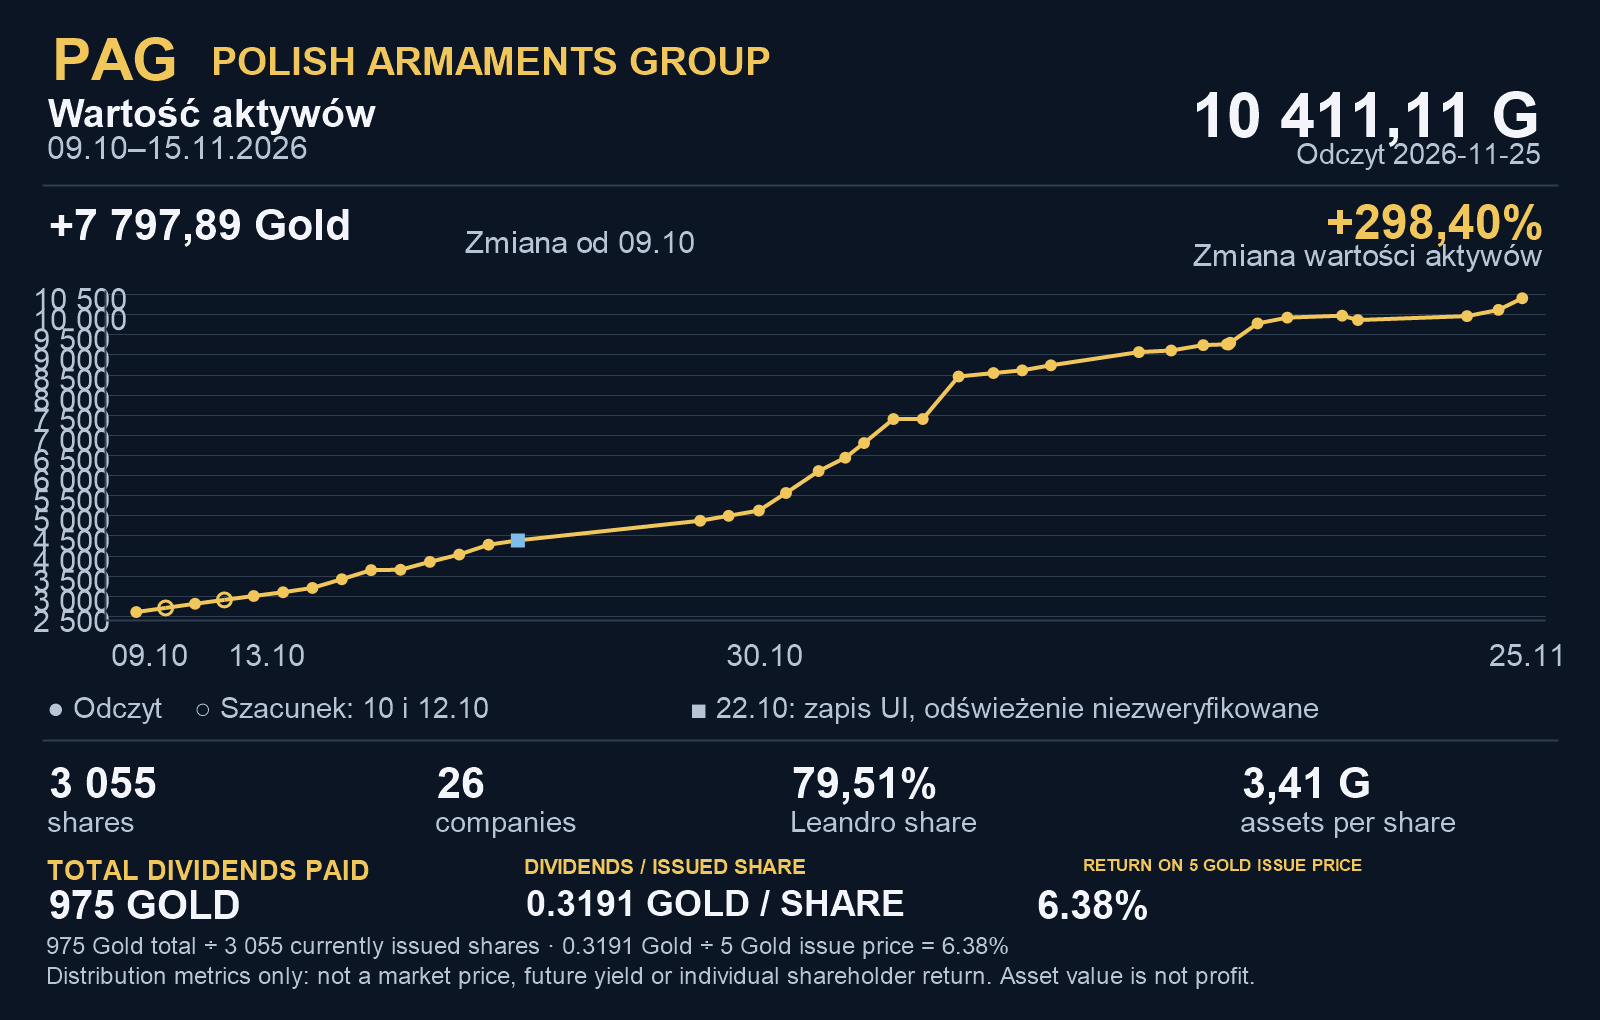
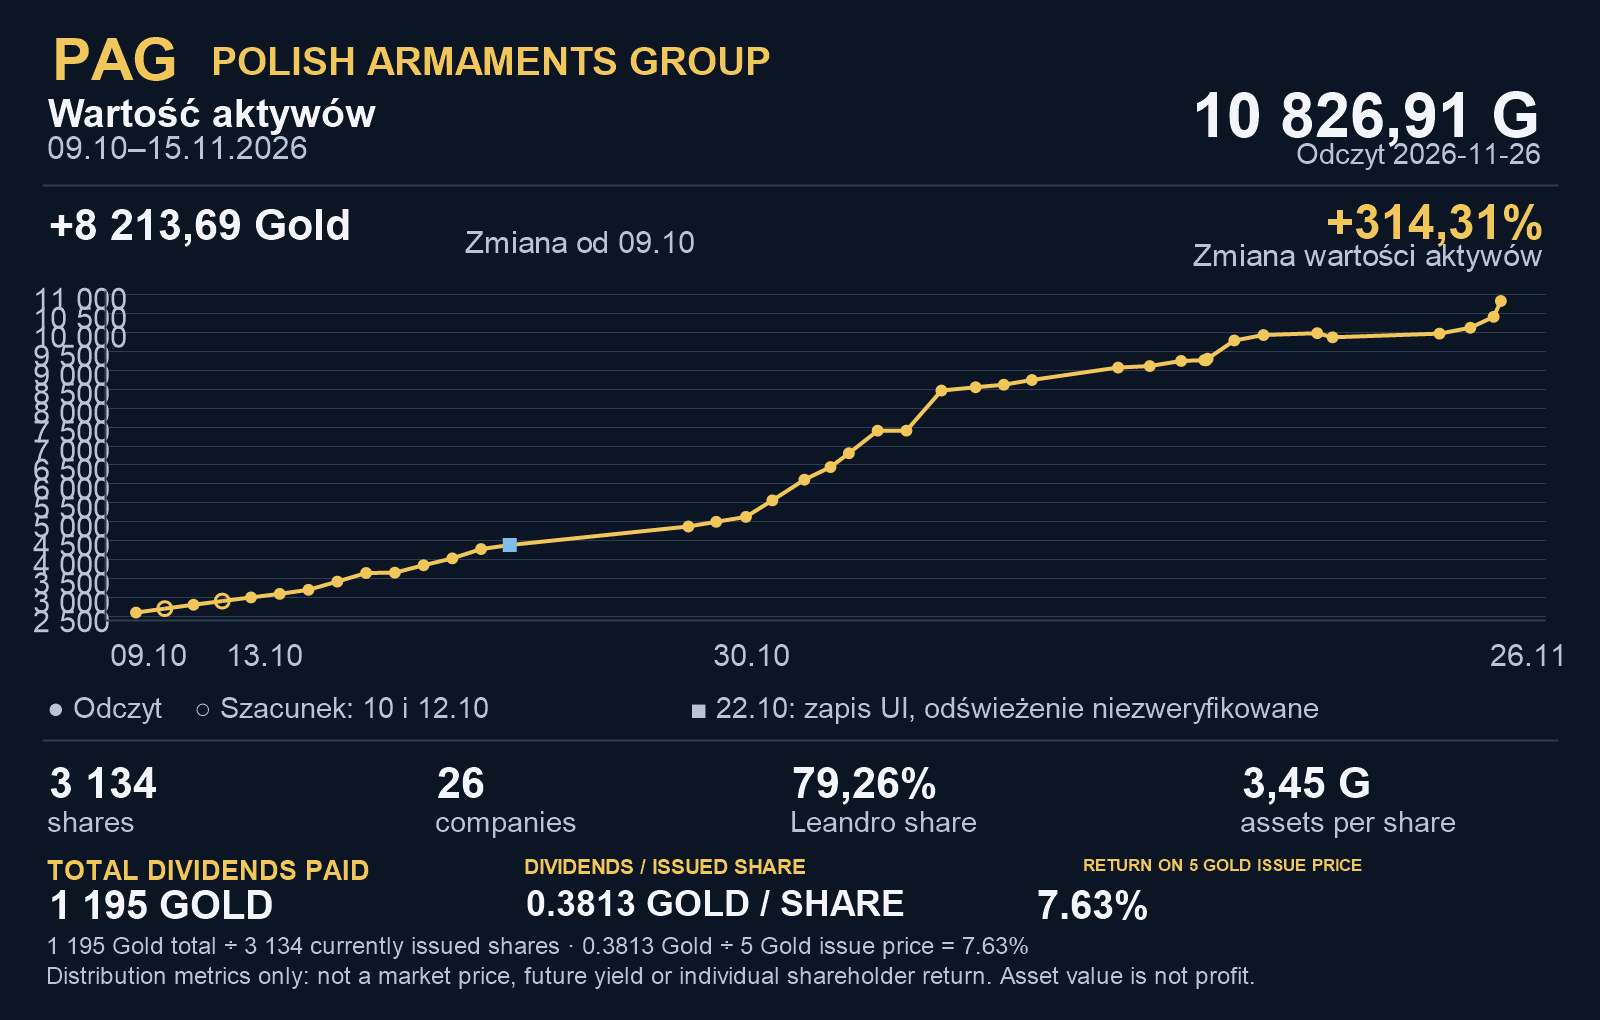
Record November 26 PAG dividend

diff --git a/pag-chart.html b/pag-chart.html
@@ -2413,6 +2413,21 @@ const history={
       &quot;source&quot;: &quot;Odczyt publicznego HTML Vexa przez HTTP GET bez logowania i bez odświeżania raportu; Leandro Daniels z wiersza imiennego; Total companies.&quot;,
       &quot;source_url&quot;: &quot;https://vexa.e-sim.org/stockCompany.html?id=45&quot;,
       &quot;report_refresh_confirmed&quot;: false
+    },
+    {
+      &quot;date&quot;: &quot;2026-11-26&quot;,
+      &quot;observed_at&quot;: &quot;2026-11-26T01:02:50Z&quot;,
+      &quot;value_gold&quot;: 10826.91,
+      &quot;shares&quot;: 3134,
+      &quot;leandro_shares&quot;: 2484,
+      &quot;leandro_percent_reported&quot;: 79.26,
+      &quot;factories&quot;: 26,
+      &quot;shareholders&quot;: 14,
+      &quot;reported_book_value_per_share_gold&quot;: 3.45,
+      &quot;status&quot;: &quot;confirmed&quot;,
+      &quot;source&quot;: &quot;Odczyt publicznego HTML Vexa przez HTTP GET bez logowania i bez odświeżania raportu; Leandro Daniels z wiersza imiennego; Total companies.&quot;,
+      &quot;source_url&quot;: &quot;https://vexa.e-sim.org/stockCompany.html?id=45&quot;,
+      &quot;report_refresh_confirmed&quot;: false
     }
   ],
   &quot;events&quot;: [
@@ -2422,6 +2437,13 @@ const history={
       &quot;amount_gold&quot;: 200,
       &quot;source&quot;: &quot;Raport graficzny użytkownika&quot;,
       &quot;notes&quot;: &quot;Wypłata według raportu. Nie doliczono do wartości aktywów.&quot;
+    },
+    {
+      &quot;date&quot;: &quot;2026-11-26&quot;,
+      &quot;type&quot;: &quot;dividend&quot;,
+      &quot;amount_gold&quot;: 220,
+      &quot;source&quot;: &quot;Log Vexa: Dividend paid, 26.11.2026 00:31:27 czasu serwera&quot;,
+      &quot;notes&quot;: &quot;Potwierdzona wypłata; nie jest dodawana do wartości aktywów.&quot;
     }
   ],
   &quot;dividend_distributions&quot;: [
@@ -2466,10 +2488,16 @@ const history={
       &quot;date&quot;: &quot;2026-11-14&quot;,
       &quot;round&quot;: &quot;2026-11-13/14&quot;,
       &quot;amount_gold&quot;: 250
+    },
+    {
+      &quot;server_time&quot;: &quot;00:31:27&quot;,
+      &quot;date&quot;: &quot;2026-11-26&quot;,
+      &quot;round&quot;: &quot;2026-11-26&quot;,
+      &quot;amount_gold&quot;: 220
     }
   ],
   &quot;dividend_definitions&quot;: {
-    &quot;total_paid_gold&quot;: &quot;Sum of logged Dividend paid entries; 975 Gold through 2026-11-14.&quot;,
+    &quot;total_paid_gold&quot;: &quot;Sum of logged Dividend paid entries; 1,195 Gold through 2026-11-26.&quot;,
     &quot;asset_value_plus_dividends_gold&quot;: &quot;Displayed asset value plus cumulative dividends paid before the measurement time. Derived comparison; not assets still held by PAG.&quot;,
     &quot;measurement_timing&quot;: &quot;The 2026-10-13 user-reported asset reading has no time, so the dividend-adjusted series is null on that date. The 2026-11-14 Vexa read preceded the 23:53:58 dividend payment.&quot;
   }

diff --git a/pag-growth.html b/pag-growth.html
@@ -621,6 +621,21 @@ const history={
       "source": "Odczyt publicznego HTML Vexa przez HTTP GET bez logowania i bez odświeżania raportu; Leandro Daniels z wiersza imiennego; Total companies.",
       "source_url": "https://vexa.e-sim.org/stockCompany.html?id=45",
       "report_refresh_confirmed": false
+    },
+    {
+      "date": "2026-11-26",
+      "observed_at": "2026-11-26T01:02:50Z",
+      "value_gold": 10826.91,
+      "shares": 3134,
+      "leandro_shares": 2484,
+      "leandro_percent_reported": 79.26,
+      "factories": 26,
+      "shareholders": 14,
+      "reported_book_value_per_share_gold": 3.45,
+      "status": "confirmed",
+      "source": "Odczyt publicznego HTML Vexa przez HTTP GET bez logowania i bez odświeżania raportu; Leandro Daniels z wiersza imiennego; Total companies.",
+      "source_url": "https://vexa.e-sim.org/stockCompany.html?id=45",
+      "report_refresh_confirmed": false
     }
   ],
   "events": [
@@ -630,6 +645,13 @@ const history={
       "amount_gold": 200,
       "source": "Raport graficzny użytkownika",
       "notes": "Wypłata według raportu. Nie doliczono do wartości aktywów."
+    },
+    {
+      "date": "2026-11-26",
+      "type": "dividend",
+      "amount_gold": 220,
+      "source": "Log Vexa: Dividend paid, 26.11.2026 00:31:27 czasu serwera",
+      "notes": "Potwierdzona wypłata; nie jest dodawana do wartości aktywów."
     }
   ],
   "dividend_distributions": [
@@ -674,10 +696,16 @@ const history={
       "date": "2026-11-14",
       "round": "2026-11-13/14",
       "amount_gold": 250
+    },
+    {
+      "server_time": "00:31:27",
+      "date": "2026-11-26",
+      "round": "2026-11-26",
+      "amount_gold": 220
     }
   ],
   "dividend_definitions": {
-    "total_paid_gold": "Sum of logged Dividend paid entries; 975 Gold through 2026-11-14.",
+    "total_paid_gold": "Sum of logged Dividend paid entries; 1,195 Gold through 2026-11-26.",
     "asset_value_plus_dividends_gold": "Displayed asset value plus cumulative dividends paid before the measurement time. Derived comparison; not assets still held by PAG.",
     "measurement_timing": "The 2026-10-13 user-reported asset reading has no time, so the dividend-adjusted series is null on that date. The 2026-11-14 Vexa read preceded the 23:53:58 dividend payment."
   }

diff --git a/README.md b/README.md
@@ -8,15 +8,15 @@
 
 [Interaktywny wykres](pag-growth.html) · [Eksport HTML](pag-chart.html) · [Historia danych](history.json) · [Spółka w Vexa](https://vexa.e-sim.org/stockCompany.html?id=45)
 
-Ostatni odczyt widocznej strony Vexa: **25 listopada 2026, 20:00 czasu polskiego** — wyświetlana szacowana wartość **10 411,11 Gold**, **3 055 akcji**, **14 udziałowców** i **26 firm**. Leandro Daniels ma **2 429 akcji (79,51%)**. Wyświetlana wartość aktywów na akcję: **3,41 Gold**. Odczyt wykonano bez odświeżania raportu.
+Ostatni odczyt widocznej strony Vexa: **26 listopada 2026, 02:02 czasu polskiego** — wyświetlana szacowana wartość **10 826,91 Gold**, **3 134 akcji**, **14 udziałowców** i **26 firm**. Leandro Daniels ma **2 484 akcje (79,26%)**. Wyświetlana wartość aktywów na akcję: **3,45 Gold**. Odczyt wykonano bez odświeżania raportu.
 
-Względem wcześniejszego odczytu z 25 listopada o 00:35: wartość wzrosła o **288,94 Gold (+2,85%)**. Przybyło **55 akcji**, **1 udziałowiec** i **2 firmy**; liczba akcji Leandro pozostała bez zmian. Jego udział zmniejszył się z 80,97% do **79,51%**.
+Względem odczytu z 25 listopada o 20:00: wartość wzrosła o **415,80 Gold (+3,99%)**. Przybyło **79 akcji**, w tym **55 akcji Leandro**; liczba udziałowców i firm pozostała bez zmian. Jego udział zmniejszył się z 79,51% do **79,26%**.
 
-Historia zachowuje **40 pomiarów** do 25 listopada, w tym dwa odczyty tego dnia i trzy odczyty z 15 listopada. Logi Vexa potwierdzają **975 Gold w siedmiu wypłatach**: 200 Gold (13 października), 275 Gold w czterech przelewach (30 października) i 500 Gold w dwóch przelewach (13–14 listopada). Kolejne rundy wypłat wzrosły o **37,50%** oraz **81,82%**. Odstępy wyniosły około 17 dni, a potem 14–15 dni; statut określa plan dwutygodniowy, nie gwarantowaną regularność.
+Historia zachowuje **41 pomiarów** do 26 listopada, w tym dwa odczyty z 25 listopada i trzy odczyty z 15 listopada. Logi Vexa potwierdzają **1 195 Gold w ośmiu wypłatach**: 200 Gold (13 października), 275 Gold w czterech przelewach (30 października), 500 Gold w dwóch przelewach (13–14 listopada) oraz **220 Gold 26 listopada**. Statut określa plan dwutygodniowy, nie gwarantowaną regularność.
 
-The chart now shows **TOTAL DIVIDENDS PAID: 975 GOLD**, **DIVIDENDS PER CURRENTLY ISSUED SHARE: 0.3191 GOLD / SHARE**, and **CUMULATIVE RETURN ON 5 GOLD ISSUE PRICE: 6.38%**. The calculation is 0.3191 Gold in recorded dividends per currently issued share ÷ 5 Gold issue price. It is a distribution metric for a share bought at the original 5 Gold issue price, not a market price, future yield or individual shareholder return.
+The chart now shows **TOTAL DIVIDENDS PAID: 1,195 GOLD**, **DIVIDENDS PER CURRENTLY ISSUED SHARE: 0.3813 GOLD / SHARE**, and **CUMULATIVE RETURN ON 5 GOLD ISSUE PRICE: 7.63%**. The calculation is 0.3813 Gold in recorded dividends per currently issued share ÷ 5 Gold issue price. It is a distribution metric for a share bought at the original 5 Gold issue price, not a market price, future yield or individual shareholder return.
 
-Najnowsze **10 411,11 Gold wartości aktywów + 975 Gold wcześniej wypłaconych dywidend = 11 386,11 Gold** to miara skumulowana do porównania. Nie oznacza aktywów pozostających w spółce, zysku PAG ani stopy zwrotu akcjonariusza. Wycena aktywów obejmuje zmiany kapitału i cen.
+Najnowsze **10 826,91 Gold wartości aktywów + 1 195 Gold wcześniej wypłaconych dywidend = 12 021,91 Gold** to miara skumulowana do porównania. Nie oznacza aktywów pozostających w spółce, zysku PAG ani stopy zwrotu akcjonariusza. Wycena aktywów obejmuje zmiany kapitału i cen.
 
 ## Źródła i statusy
 
